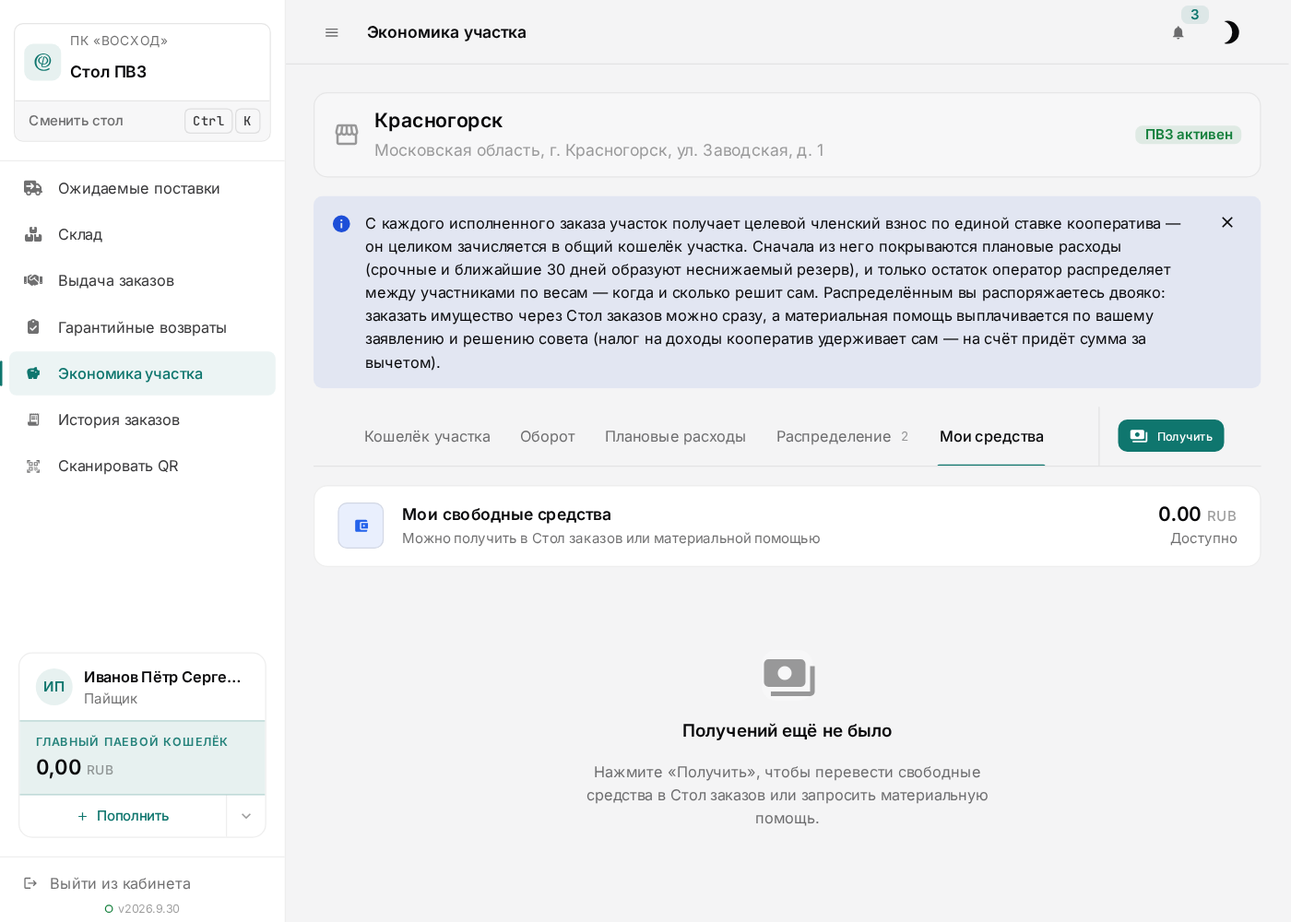
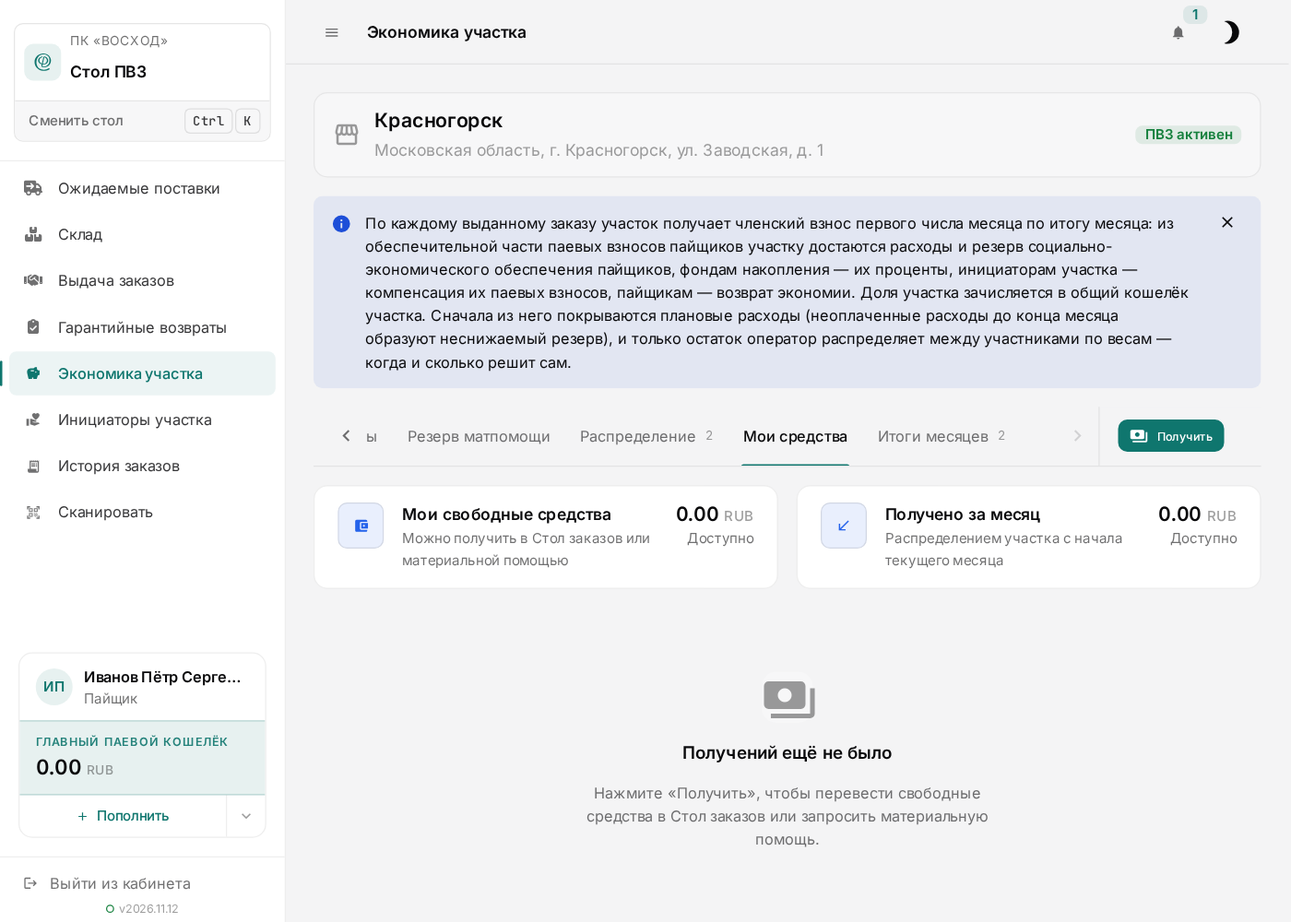
[598-63][@ant] docs: экономика участка по итогу месяца — страница «Экономика участка» переписана под модель коэффициента экономического участия, новая страница «Итоги месяцев участка» в меню, 12 кадров съёмки 43556908194 на стенде со сжатым временем (общий кошелёк с членским взносом, распределение п

diff --git a/components/docs/docs/new/marketplace/operator/economy.md b/components/docs/docs/new/marketplace/operator/economy.md
@@ -1,39 +1,43 @@
 # Экономика участка
 
-С каждого исполненного заказа участок выдачи получает целевой членский взнос по единой ставке кооператива. Из этих взносов участок живёт. Страница «Экономика участка» показывает путь этих денег. Это общий кошелёк участка, плановые расходы, распределение остатка между операторами и личные средства каждого.
+Кооперативный участок получает членский взнос первого числа месяца по итогу прошедшего месяца. Итог считается по заказам, которые участок выдал за месяц. Из обеспечительной части паевых взносов пайщиков участку достаются его расходы. Остаток обеспечительной части направляется в фонды накопления кооператива, инициаторам участка и пайщикам обратно. Страница «Экономика участка» показывает путь денег участка. Это общий кошелёк, плановые расходы, распределение остатка между участниками и личные средства каждого.
 
 Смотреть экономику могут все операторы участка. Управлять ею может председатель кооперативного участка. Это план расходов, веса и распределение.
 
 ![Кошелёк участка](/assets/new/marketplace/operator/economy/01-branch-wallet.png)
 
-Сверху карточка участка с адресом и состоянием пункта выдачи. Ниже пять разделов. Это кошелёк участка, оборот, плановые расходы, распределение и мои средства. Вкладка «Кошелёк участка» показывает общий кошелёк и движения по нему. Членский взнос по заказу приходит в кошелёк при исполнении заказа. При принятом гарантийном возврате взнос по заказу списывается из кошелька обратно. Распределение изымает деньги из кошелька на личные кошельки операторов.
+Сверху карточка участка с адресом и состоянием пункта выдачи. Ниже семь разделов. Это кошелёк участка, оборот, плановые расходы, резерв матпомощи, распределение, мои средства и итоги месяцев.
+
+Раздел «Кошелёк участка» показывает четыре карточки. «Общий кошелёк участка» держит деньги на расходы, закупку впрок и распределения. «Резерв плановых расходов» показывает неоплаченные расходы до конца месяца и накопленные доли квартальных и годовых платежей. «Доступно к распределению» показывает остаток сверх резерва. «Распределено за месяц» показывает сумму, которую участники получили с начала текущего месяца. Ниже стоят движения по кошельку. Членский взнос участка зачисляется строкой «Зачисление членского взноса в общий кошелёк кооперативного участка».
 
 ![Плановые расходы](/assets/new/marketplace/operator/economy/01b-expense-plans.png)
 
-Вкладка «Плановые расходы» ведёт известные траты участка. Это электроэнергия, аренда, хозяйственные нужды. Правило одно. Сначала расходы, потом распределение. Траты ближайших тридцати дней образуют неснижаемый резерв в общем кошельке. Распределить можно только остаток сверх резерва. Две плитки показывают резерв на тридцать дней и сумму, доступную к распределению.
+Раздел «Плановые расходы» ведёт известные траты участка. Это электроэнергия, аренда, хозяйственные нужды. Правило одно. Сначала расходы, потом распределение. Резерв плановых расходов остаётся в общем кошельке, распределить можно только остаток сверх резерва. Раздел подробно описан на странице [«Плановые расходы участка»](../branch-chairman/expense-plans.md).
 
 ![Новый плановый расход](/assets/new/marketplace/operator/economy/01c-add-plan-dialog.png)
 
-Кнопка «Добавить расход» открывает окно. В нём назначение расхода, сумма, дата оплаты, повторяемость и реквизиты оплаты. Повторяемость бывает разовой, ежемесячной и ежеквартальной. Внеплановая трата добавляется в план тем же окном и становится плановой.
+Кнопка «Добавить расход» открывает окно нового планового расхода. В нём назначение расхода, сумма, дата оплаты, повторяемость и способ оплаты.
 
 Оплата расхода идёт служебной запиской. Председатель участка создаёт записку с назначением и формой оплаты. Это аванс под отчёт пайщику либо перевод организации по реквизитам. Записка направляется в совет, совет утверждает её, и платёж попадает кассиру. Кассир переводит деньги и прикладывает документ об оплате. По авансу пайщик затем отчитывается чеками на своём столе в разделе «Платежи». Перевод организации отчёта пайщика не требует, кассир прикладывает закрывающие документы сам.
 
 ![Распределение](/assets/new/marketplace/operator/economy/02-distribution-grid.png)
 
-Вкладка «Распределение» делит свободный остаток между операторами участка по весам. Председатель участка тоже оператор и тоже участвует. Веса задаёт председатель участка в таблице. Вес 1 у всех означает поровну. Вес 3 у председателя и 1 у оператора означает три четверти и четверть. Таблица показывает вес, долю в процентах и сумму на личном кошельке каждого.
+Раздел «Распределение» делит доступный остаток между участниками распределения по весам. Председатель участка тоже участвует. Веса задаёт председатель участка в таблице. Вес 1 у всех означает поровну. Вес 3 у председателя и 1 у второго участника означает три четверти и четверть. Таблица показывает вес, долю в процентах и сумму на личном кошельке каждого.
 
 ![Распределить из общего кошелька](/assets/new/marketplace/operator/economy/03-distribute-dialog.png)
 
-Кнопка «Распределить» открывает окно с суммой распределения. Кнопка «МАКС» подставляет весь доступный остаток. Распределять можно частично и несколько раз. Резерв плановых расходов остаётся в общем кошельке.
+Кнопка «Распределить» открывает окно с суммой распределения. Кнопка «МАКС» подставляет весь доступный остаток. Распределять можно частично и несколько раз. Резерв плановых расходов до конца месяца остаётся в общем кошельке.
 
 ![После распределения](/assets/new/marketplace/operator/economy/04-distributed.png)
 
-После распределения суммы разошлись по личным кошелькам согласно весам.
+После распределения суммы зачислены на личные кошельки участников согласно весам.
 
 ![Кошелёк после распределения](/assets/new/marketplace/operator/economy/05-wallet-after.png)
 
-В общем кошельке остался нераспределённый остаток. В движениях появились изъятия на распределение по каждому оператору.
+В общем кошельке остался нераспределённый остаток. Карточка «Распределено за месяц» показывает распределённую сумму. В движениях появились изъятия на распределение по каждому участнику.
 
 ![Мои средства](/assets/new/marketplace/operator/economy/05b-personal-funds.png)
 
-Вкладка «Мои средства» показывает личные свободные средства оператора и историю получений. Кнопка «Получить» даёт два пути в любой пропорции. Первый путь переводит средства в кошелёк Стола заказов, и оператор тратит их как пайщик на свои заказы. Второй путь оформляет материальную помощь. Оператор указывает сумму в пределах баланса, заявление направляется в совет. После решения совета платёж попадает кассиру, кассир переводит деньги на реквизиты и прикладывает чек. Материальная помощь приходит за вычетом налога на доходы, кооператив удерживает его сам.
+Раздел «Мои средства» показывает личные свободные средства участника и сумму, полученную за месяц. Ниже стоит история получений. Кнопка «Получить» даёт два пути в любой пропорции. Первый путь переводит средства в кошелёк Стола заказов, и участник тратит их как пайщик на свои заказы. Второй путь оформляет материальную помощь. Участник указывает сумму в пределах баланса, заявление направляется в совет. После решения совета платёж попадает кассиру, кассир переводит деньги на реквизиты и прикладывает чек. Материальная помощь перечисляется за вычетом налога на доходы, кооператив удерживает его сам.
+
+Раздел «Итоги месяцев» и резерв матпомощи описаны на странице [«Итоги месяцев участка»](../branch-chairman/economy-keu.md).

diff --git a/components/docs/docs/new/marketplace/branch-chairman/economy-keu.md b/components/docs/docs/new/marketplace/branch-chairman/economy-keu.md
@@ -1,0 +1,28 @@
+# Итоги месяцев участка
+
+Итог месяца участка — расчёт первого числа, который делит обеспечительную часть паевых взносов по заказам, выданным участком за месяц. Сначала из обеспечительной части покрываются расходы участка. Остаток делится на фонды накопления кооператива, компенсацию инициаторам участка и возврат пайщикам. Коэффициент экономического участия — доля стоимости заказа, которая по итогу месяца списана в членский взнос участка. Итоги стоят на странице «Экономика участка» стола ПВЗ, раздел «Итоги месяцев».
+
+![Раздел «Итоги месяцев»](/assets/new/marketplace/branch-chairman/economy-keu/04-periods.png)
+
+Сверху блок «Текущий месяц» показывает четыре карточки. Это расходы участка за месяц, стоимость выданных заказов, обеспечительная часть и сумма сверх расходов. Ниже стоит таблица итогов прошедших месяцев. Строка показывает стоимость заказов, обеспечительную часть, расходы участка и сумму в фонды. Первый итог подводится первого числа после списания обеспечительной части по заказам участка.
+
+Снимки сделаны на учебном стенде, где месяц длится десять минут. Поэтому месяц на кадрах подписан отрезком времени. В работе строка итога подписана названием месяца.
+
+![Состав итога месяца](/assets/new/marketplace/branch-chairman/economy-keu/05-period-details.png)
+
+Нажатие на строку открывает состав итога. Сверху стоят членский взнос участка и коэффициент экономического участия за месяц. Ниже блок «Путь денег месяца» ведёт расчёт по шагам.
+
+1. Обеспечительная часть выданных заказов списывается в членский взнос участка по итогу месяца.
+2. Расходы участка за месяц складываются из трат месяца и резерва на следующий месяц. Траты месяца — плановые расходы, записки сверх плана и материальная помощь. Резерв на следующий месяц — плановые расходы и право получателей помощи.
+3. Участку на расходы зачисляется сумма расходов месяца. Она поступает в общий кошелёк участка.
+4. В фонды накопления кооператива направляются проценты фондов от суммы сверх расходов.
+5. Компенсация инициаторам возмещает их паевые взносы. Когда взносы возмещены или инициаторов нет, компенсация направляется в общий кошелёк участка.
+6. Остаток обеспечительной части возвращается пайщикам на свободный паевой взнос Стола заказов.
+
+![Раздел «Резерв матпомощи»](/assets/new/marketplace/branch-chairman/economy-keu/02-reserve-table.png)
+
+Раздел «Резерв матпомощи» ведёт резерв социально-экономического обеспечения пайщиков. Председатель участка назначает получателям суммы в рамках верхнего предела. Верхний предел задаёт администратор кооператива на своём столе, раздел «Экономика». Пока предел не задан, резерв выключен, и материальная помощь выплачивается без предела.
+
+![Раздел «Кошелёк участка»](/assets/new/marketplace/branch-chairman/economy-keu/01-wallet.png)
+
+Членский взнос по итогу месяца зачисляется в общий кошелёк участка. Кошелёк, плановые расходы и распределение описаны на странице [«Экономика участка»](../operator/economy.md).
